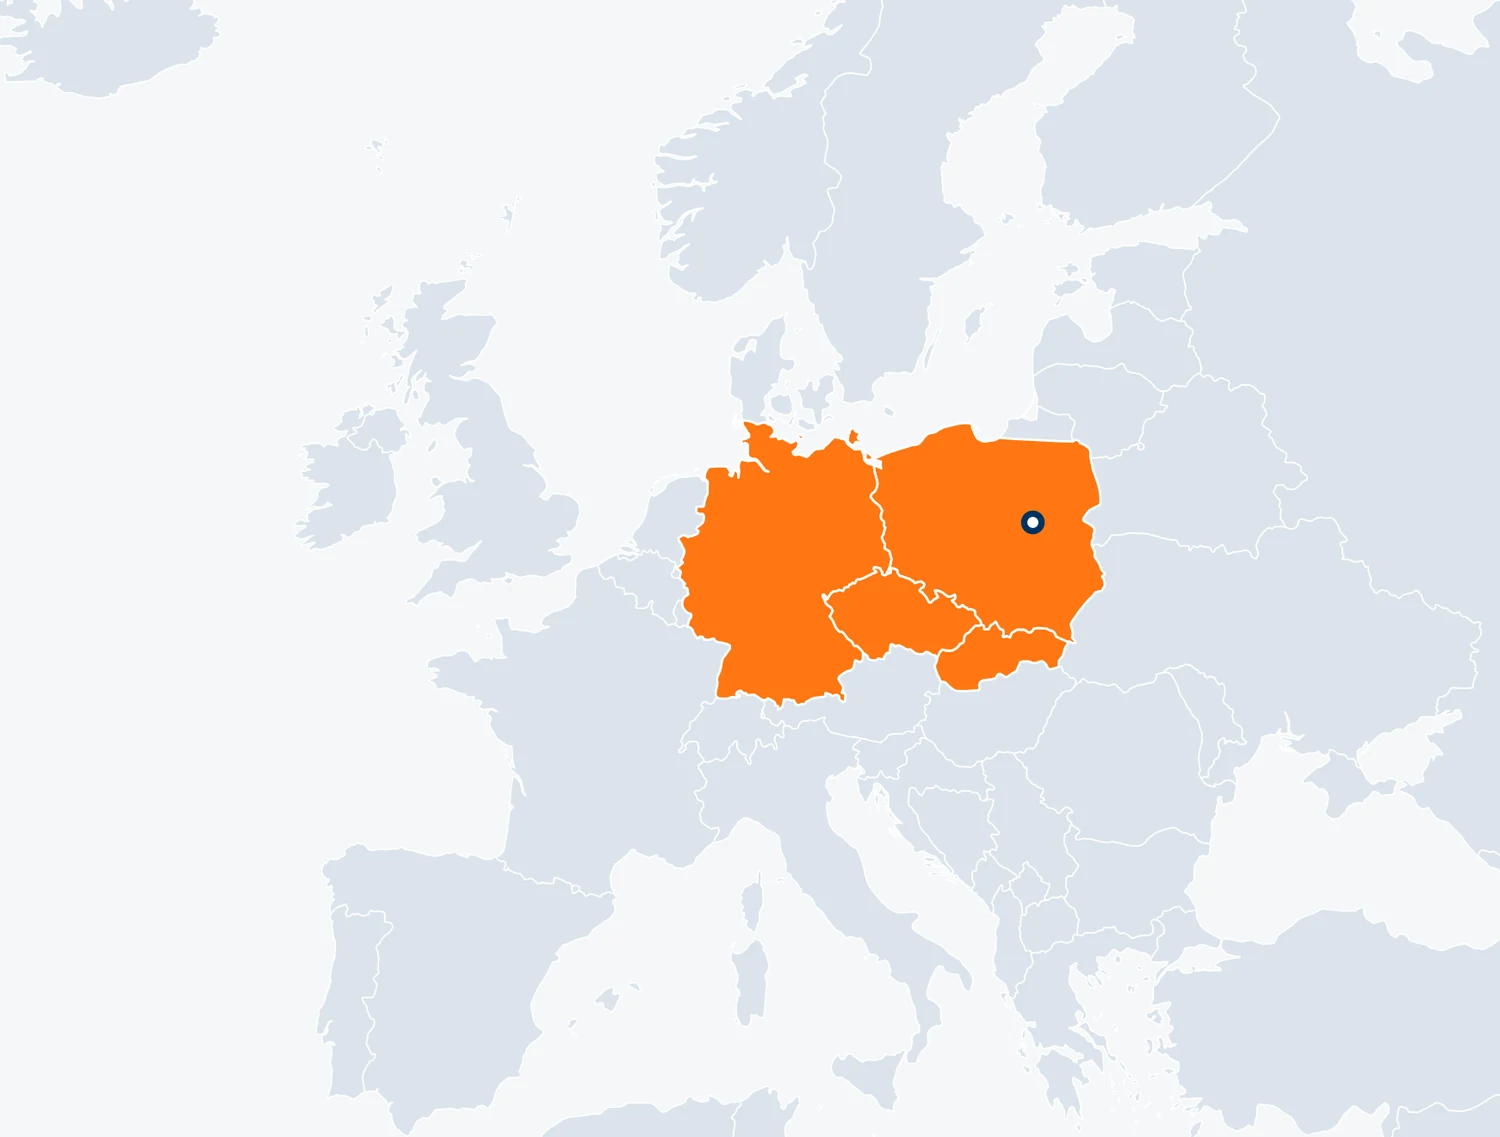
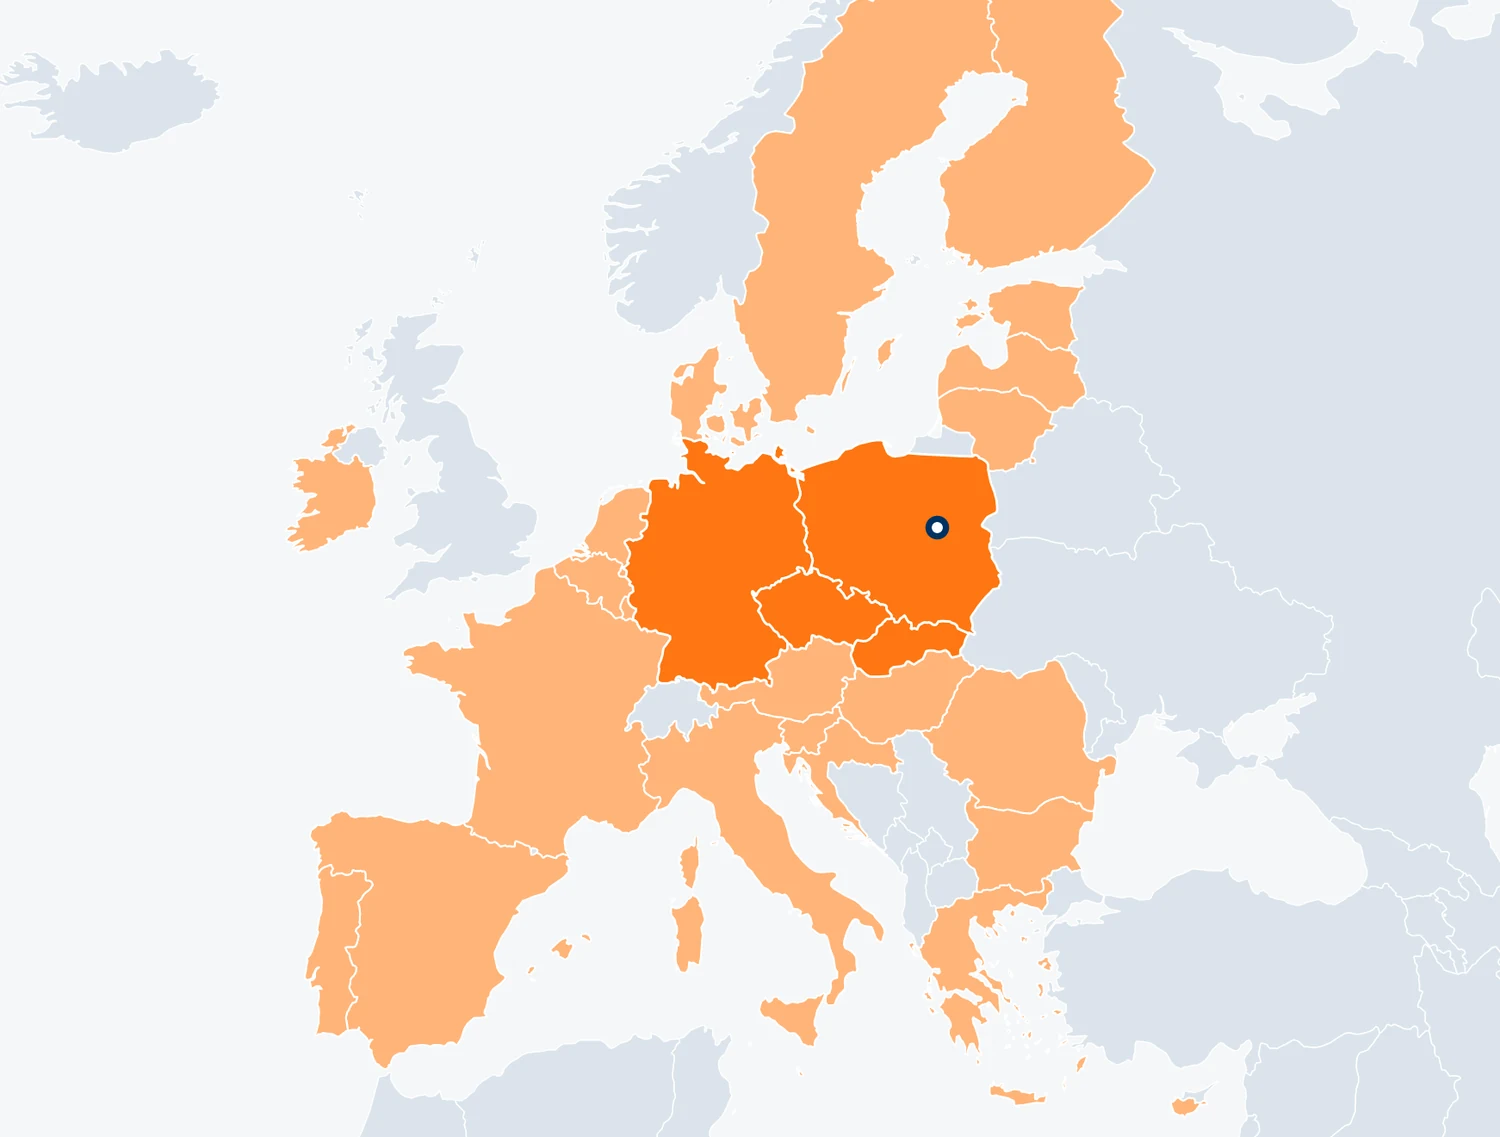
Highlight every EU member state on the Europe map
The map picked out only the four core markets, which left the rest of the
Union looking the same as non-EU territory. All 27 member states are now
filled in a lighter tint of the brand orange, and Poland, Germany, Czechia
and Slovakia keep the full brand orange so the distinction between served
markets and the wider Union still reads. Warsaw stays marked.

Country geometry comes from the Natural Earth 1:50m admin-0 set, so borders
are accurate rather than drawn by hand. Coverage check on the rendered file:
15.6 percent of the canvas in EU tint, 3.8 percent in core orange.

aboutGeoMapAlt rewritten in all five languages to describe the Union as a
whole, and reassigned to the correct language blocks: the earlier pass had
inserted them positionally, which shifted every translation by one block.

diff --git a/lib/i18n.ts b/lib/i18n.ts
@@ -93,7 +93,7 @@ const pl: Dictionary = {
   aboutGuaranteeCta: 'Zobacz dokumenty',
   aboutGeoEyebrow: 'Zasięg',
   aboutGeoTitle: 'Dostarczamy w całej Europie',
-  aboutGeoMapAlt: 'Mapa Europy z zaznaczonymi rynkami: Polska, Niemcy, Czechy i Słowacja',
+  aboutGeoMapAlt: 'Mapa Europy z zaznaczonymi krajami Unii Europejskiej, wyróżnione rynki: Polska, Niemcy, Czechy i Słowacja',
   aboutGeoText: 'Od Skandynawii po Bałkany — wysyłamy przesyłki z wygodną logistyką, a dokumentację dostarczamy na życzenie. Współpracujemy z klientami w Polsce, Niemczech, Czechach i Słowacji.',
   aboutStat1Value: '28',
   aboutStat1Label: 'standardowych rozmiarów',
@@ -375,7 +375,7 @@ const en: Dictionary = {
   aboutGuaranteeCta: 'View documents',
   aboutGeoEyebrow: 'Reach',
   aboutGeoTitle: 'Delivering across Europe',
-  aboutGeoMapAlt: 'Mapa Europy: Polska, Niemcy, Czechy, Slowacja',
+  aboutGeoMapAlt: 'Map of Europe with the European Union countries marked, core markets highlighted: Poland, Germany, Czechia and Slovakia',
   aboutGeoText: 'From Scandinavia to the Balkans — we ship with convenient logistics, and documentation is provided on request. We work with customers in Poland, Germany, the Czech Republic and Slovakia.',
   aboutStat1Value: '28',
   aboutStat1Label: 'standard sizes',
@@ -641,7 +641,7 @@ const de: Dictionary = {
   aboutGuaranteeCta: 'Dokumente ansehen',
   aboutGeoEyebrow: 'Reichweite',
   aboutGeoTitle: 'Wir liefern in ganz Europa',
-  aboutGeoMapAlt: 'Mapa Europy: Polska, Niemcy, Czechy, Slowacja',
+  aboutGeoMapAlt: 'Karte Europas mit den Ländern der Europäischen Union, Kernmärkte: Polen, Deutschland, Tschechien und Slowakei',
   aboutGeoText: 'Von Skandinavien bis zum Balkan — wir versenden mit bequemer Logistik, Dokumentation auf Wunsch. Wir arbeiten mit Kunden in Polen, Deutschland, Tschechien und der Slowakei.',
   aboutStat1Value: '28',
   aboutStat1Label: 'Standardgrößen',
@@ -907,7 +907,7 @@ const cz: Dictionary = {
   aboutGuaranteeCta: 'Zobrazit dokumenty',
   aboutGeoEyebrow: 'Dosah',
   aboutGeoTitle: 'Dodáváme po celé Evropě',
-  aboutGeoMapAlt: 'Mapa Europy: Polska, Niemcy, Czechy, Slowacja',
+  aboutGeoMapAlt: 'Mapa Evropy se zeměmi Evropské unie, klíčové trhy: Polsko, Německo, Česko a Slovensko',
   aboutGeoText: 'Od Skandinávie po Balkán — zasíláme zásilky s pohodlnou logistikou a dokumentaci zasíláme na vyžádání. Spolupracujeme se zákazníky v Polsku, Německu, Česku a na Slovensku.',
   aboutStat1Value: '28',
   aboutStat1Label: 'standardních rozměrů',
@@ -1173,7 +1173,7 @@ const sk: Dictionary = {
   aboutGuaranteeCta: 'Zobraziť dokumenty',
   aboutGeoEyebrow: 'Dosah',
   aboutGeoTitle: 'Dodávame po celej Európe',
-  aboutGeoMapAlt: 'Mapa Europy: Polska, Niemcy, Czechy, Slowacja',
+  aboutGeoMapAlt: 'Mapa Európy s krajinami Európskej únie, kľúčové trhy: Poľsko, Nemecko, Česko a Slovensko',
   aboutGeoText: 'Od Škandinávie po Balkán — zasielame zásielky s pohodlnou logistikou a dokumentáciu zasielame na požiadanie. Spolupracujeme so zákazníkmi v Poľsku, Nemecku, Česku a na Slovensku.',
   aboutStat1Value: '28',
   aboutStat1Label: 'štandardných rozmerov',
